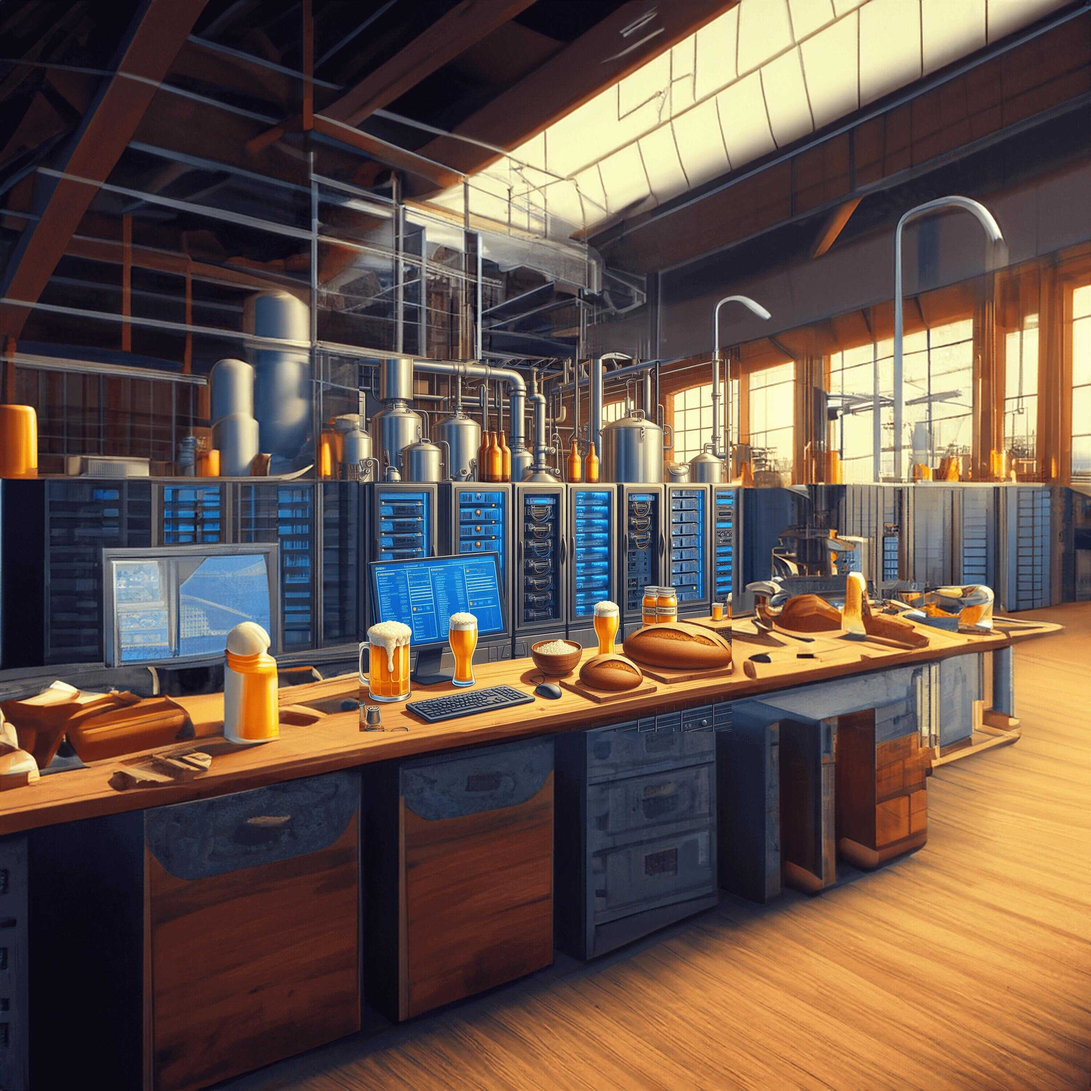
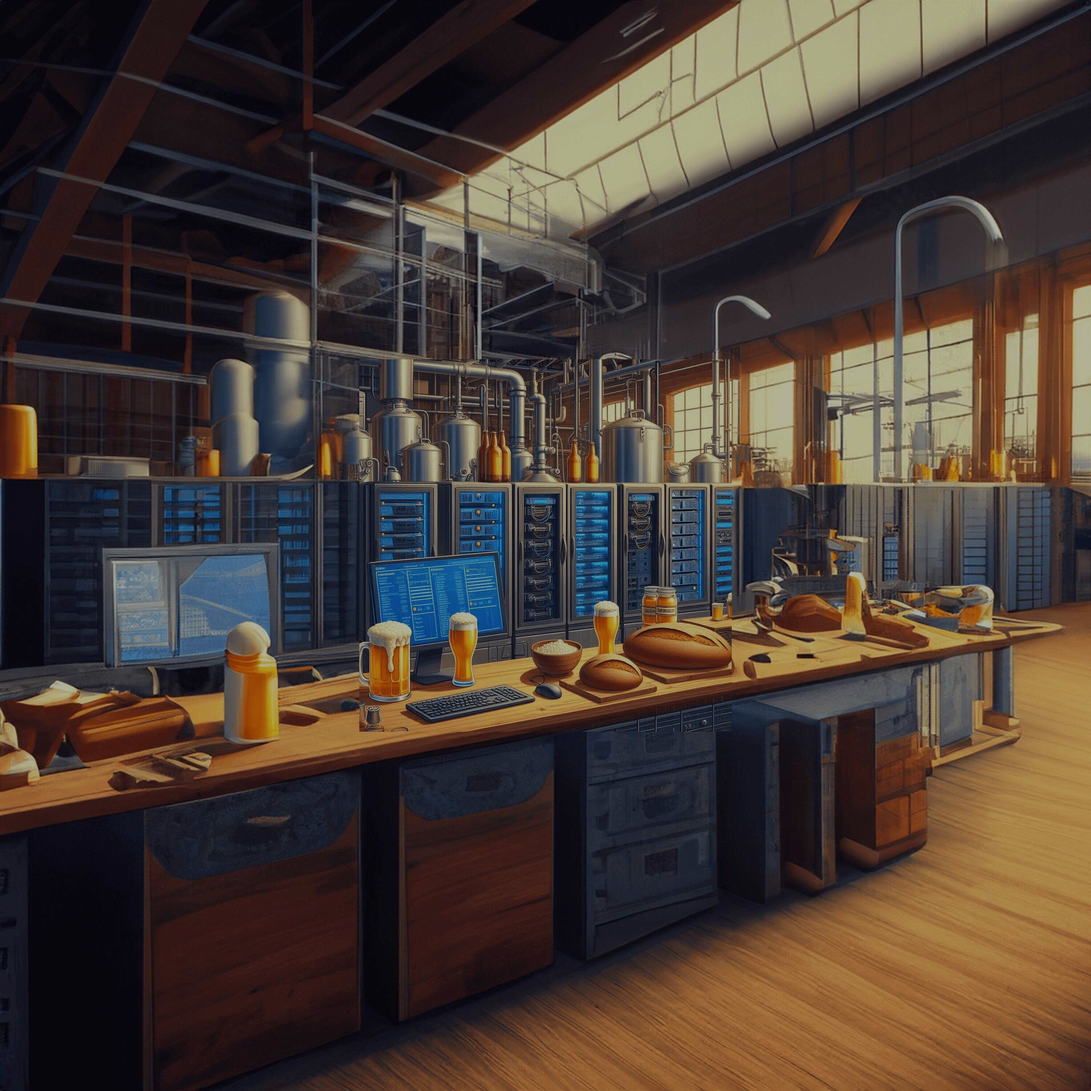
Updated text

diff --git a/index.html b/index.html
@@ -34,7 +34,7 @@
                 <div class="collapse navbar-collapse" id="navbarResponsive">
                     <ul class="navbar-nav text-uppercase ms-auto py-4 py-lg-0">
                         <li class="nav-item"><a class="nav-link" href="#about">About</a></li>
-                        <li class="nav-item"><a class="nav-link" href="#projects">Projects</a></li>
+                        <li class="nav-item"><a class="nav-link" href="#career">Career</a></li>
                         <li class="nav-item"><a class="nav-link" href="#portfolio">Portfolio</a></li>
                         <li class="nav-item"><a class="nav-link" href="#contact">Contact</a></li>
                     </ul>
@@ -56,15 +56,17 @@
                     <div class="container">
                         <div class="text-center">
                             <h2 class="section-heading text-uppercase">About</h2>
-                            <h3 class="section-subheading text-muted">Hey there! I'm Nick, a passionate IT professional based in Galesburg, IL, with a knack for technology and a love for all things culinary. With a background that's as diverse as my interests, I bring a unique blend of skills and experiences to the table.</h3>
+                            <h3 class="section-subheading text-muted">I'm Nick, a passionate IT professional based in Galesburg, IL, with a knack for technology and a love for all things culinary. With a background that's as diverse as my interests, I bring a unique blend of skills and experiences to the table.</h3>
                         </div>
-                        <ul class="timeline">
+                <!-- Career-->
+                        <ul class="timeline" id="career">
                             <li>
                                 <div class="timeline-image"><img class="rounded-circle img-fluid" src="assets/img/about/1.png" alt="..." /></div>
                                 <div class="timeline-panel">
                                     <div class="timeline-heading">
-                                        <h4>May 2021-Present (2+ yrs)</h4>
+                                        <h4>May 2021-Present (2.5+ yrs)</h4>
                                         <h4 class="subheading" style="color:var(--bs-blue);">Knoxville Community Unit School District #202</h4>
+                                        <h3>IT Director</h3>
                                     </div>
                                     <div class="timeline-body"><p class="text-muted">As the IT Director, I manage the entire IT department, overseeing team members, budgets, regulatory compliance, and technology requirements. I lead projects spanning network infrastructure, hardware, software, telecommunications, and more, optimizing departmental workflows through policy creation. In my role, I successfully upgraded all district servers, firewalls, desktops, laptops, and networking switches within a year, advocated for a software migration for improved user interface, and implemented ConnectWise Control and Freshdesk, enhancing remote support and ticket management, respectively.</p></div>
                                 </div>
@@ -75,6 +77,7 @@
                                     <div class="timeline-heading">
                                         <h4>October 2018-May 2021 (2.5 yrs)</h4>
                                         <h4 class="subheading" style="color:var(--bs-purple);">NAEIR</h4>
+                                        <h3>Software Developer</h3>
                                     </div>
                                     <div class="timeline-body"><p class="text-muted">As a Software Developer, I took charge of IT infrastructure administration, ensuring prompt resolution of system support needs and addressing performance and capacity-related issues. I employed Agile principles in desktop and web application development, overseeing the entire programming life cycle from coding to testing and deployment. By collaborating with customers, I identified opportunities for automated processes and devised innovative solutions, achieving notable successes such as reducing site downtime to zero through virtual CPU reconfiguration and optimizing network speed while cutting subscription costs through account streamlining. Additionally, I consolidated application architecture and data synchronization processes, significantly reducing management time by consolidating systems into a single Git repository. </p></div>
                                 </div>
@@ -83,8 +86,9 @@
                                 <div class="timeline-image"><img class="rounded-circle img-fluid" src="assets/img/about/3.png" alt="..." /></div>
                                 <div class="timeline-panel">
                                     <div class="timeline-heading">
-                                        <h4>April 2013 - October 2018 (2.5 yrs) </h4>
+                                        <h4>April 2013 - October 2018 (5.5 yrs) </h4>
                                         <h4 class="subheading" style="color:var(--bs-green)">City of Galesburg</h4>
+                                        <h3>Information Systems Tech</h3>
                                     </div>
                                     <div class="timeline-body"><p class="text-muted">
                                         As an Information Systems Technician, I conducted root cause analysis on application bugs, utilizing Python, PLC, and SCADA development to enhance system performance. I provided comprehensive technical support for both hardware and software, maximizing security and performance while leading system migration initiatives. Serving as the primary contact for technical issues and software releases, I established a deployment protocol for efficient software installations through a Microsoft WDS server. Additionally, I designed an Android application, enhancing information processing and optimizing website traffic.</p></div>
@@ -93,42 +97,8 @@
                         </ul>
                     </div>
                 </section>
-       <!--
-        <section class="page-section" id="services">
-            <div class="container">
-                <div class="text-center">
-                    <h2 class="section-heading text-uppercase">Projects</h2>
-                    <h3 class="section-subheading text-muted">Lorem ipsum dolor sit amet consectetur.</h3>
-                </div>
-                <div class="row text-center">
-                    <div class="col-md-4">
-                        <span class="fa-stack fa-4x">
-                            <i class="fas fa-circle fa-stack-2x text-primary"></i>
-                            <i class="fas fa-shopping-cart fa-stack-1x fa-inverse"></i>
-                        </span>
-                        <h4 class="my-3">About</h4>
-                        <p class="text-muted">Hey there! I'm Nick, a passionate IT professional based in Galesburg, IL, with a knack for technology and a love for all things culinary. With a background that's as diverse as my interests, I bring a unique blend of skills and experiences to the table.</p>
-                    </div>
-                    <div class="col-md-4">
-                        <span class="fa-stack fa-4x">
-                            <i class="fas fa-circle fa-stack-2x text-primary"></i>
-                            <i class="fas fa-laptop fa-stack-1x fa-inverse"></i>
-                        </span>
-                        <h4 class="my-3">Networking</h4>
-                        <p class="text-muted">Lorem ipsum dolor sit amet, consectetur adipisicing elit. Minima maxime quam architecto quo inventore harum ex magni, dicta impedit.</p>
-                    </div>
-                    <div class="col-md-4">
-                        <span class="fa-stack fa-4x">
-                            <i class="fas fa-circle fa-stack-2x text-primary"></i>
-                            <i class="fas fa-lock fa-stack-1x fa-inverse"></i>
-                        </span>
-                        <h4 class="my-3">Web Security</h4>
-                        <p class="text-muted">Lorem ipsum dolor sit amet, consectetur adipisicing elit. Minima maxime quam architecto quo inventore harum ex magni, dicta impedit.</p>
-                    </div>
-                </div>
-            </div>
-        </section> -->
-        <!-- Portfolio Grid-->
+
+        <!-- Portfolio -->
         <section class="page-section bg-light" id="portfolio">
             <div class="container">
                 <div class="text-center">
@@ -230,51 +200,6 @@
             </div>
         </section>
 
-        <!--
-        <section class="page-section bg-light" id="team">
-            <div class="container">
-                <div class="text-center">
-                    <h2 class="section-heading text-uppercase">Our Amazing Team</h2>
-                    <h3 class="section-subheading text-muted">Lorem ipsum dolor sit amet consectetur.</h3>
-                </div>
-                <div class="row">
-                    <div class="col-lg-4">
-                        <div class="team-member">
-                            <img class="mx-auto rounded-circle" src="assets/img/team/1.jpg" alt="..." />
-                            <h4>Parveen Anand</h4>
-                            <p class="text-muted">Lead Designer</p>
-                            <a class="btn btn-dark btn-social mx-2" href="#!" aria-label="Parveen Anand Twitter Profile"><i class="fab fa-twitter"></i></a>
-                            <a class="btn btn-dark btn-social mx-2" href="#!" aria-label="Parveen Anand Facebook Profile"><i class="fab fa-facebook-f"></i></a>
-                            <a class="btn btn-dark btn-social mx-2" href="#!" aria-label="Parveen Anand LinkedIn Profile"><i class="fab fa-linkedin-in"></i></a>
-                        </div>
-                    </div>
-                    <div class="col-lg-4">
-                        <div class="team-member">
-                            <img class="mx-auto rounded-circle" src="assets/img/team/2.jpg" alt="..." />
-                            <h4>Diana Petersen</h4>
-                            <p class="text-muted">Lead Marketer</p>
-                            <a class="btn btn-dark btn-social mx-2" href="#!" aria-label="Diana Petersen Twitter Profile"><i class="fab fa-twitter"></i></a>
-                            <a class="btn btn-dark btn-social mx-2" href="#!" aria-label="Diana Petersen Facebook Profile"><i class="fab fa-facebook-f"></i></a>
-                            <a class="btn btn-dark btn-social mx-2" href="#!" aria-label="Diana Petersen LinkedIn Profile"><i class="fab fa-linkedin-in"></i></a>
-                        </div>
-                    </div>
-                    <div class="col-lg-4">
-                        <div class="team-member">
-                            <img class="mx-auto rounded-circle" src="assets/img/team/3.jpg" alt="..." />
-                            <h4>Larry Parker</h4>
-                            <p class="text-muted">Lead Developer</p>
-                            <a class="btn btn-dark btn-social mx-2" href="#!" aria-label="Larry Parker Twitter Profile"><i class="fab fa-twitter"></i></a>
-                            <a class="btn btn-dark btn-social mx-2" href="#!" aria-label="Larry Parker Facebook Profile"><i class="fab fa-facebook-f"></i></a>
-                            <a class="btn btn-dark btn-social mx-2" href="#!" aria-label="Larry Parker LinkedIn Profile"><i class="fab fa-linkedin-in"></i></a>
-                        </div>
-                    </div>
-                </div>
-                <div class="row">
-                    <div class="col-lg-8 mx-auto text-center"><p class="large text-muted">Lorem ipsum dolor sit amet, consectetur adipisicing elit. Aut eaque, laboriosam veritatis, quos non quis ad perspiciatis, totam corporis ea, alias ut unde.</p></div>
-                </div>
-            </div>
-        </section>
-    -->
         <!-- Clients-->
         <div class="py-5">
             <div class="container">
@@ -364,9 +289,8 @@
                 <div class="row align-items-center">
                     <div class="col-lg-4 text-lg-start">Copyright &copy; GigabitNick 2023</div>
                     <div class="col-lg-4 my-3 my-lg-0">
-                        <a class="btn btn-dark btn-social mx-2" href="#!" aria-label="Twitter"><i class="fab fa-twitter"></i></a>
-                        <a class="btn btn-dark btn-social mx-2" href="#!" aria-label="Facebook"><i class="fab fa-facebook-f"></i></a>
-                        <a class="btn btn-dark btn-social mx-2" href="#!" aria-label="LinkedIn"><i class="fab fa-linkedin-in"></i></a>
+                        <a class="btn btn-dark btn-social mx-2" href="https://twitter.com/gigabitnick" aria-label="Twitter"><i class="fab fa-twitter"></i></a>
+                        <a class="btn btn-dark btn-social mx-2" href="https://linkedin.com/in/nick-elliott" aria-label="LinkedIn"><i class="fab fa-linkedin-in"></i></a>
                     </div>
                     <div class="col-lg-4 text-lg-end">
                         <a class="link-dark text-decoration-none me-3" href="#!">Privacy Policy</a>
@@ -386,23 +310,20 @@
                             <div class="col-lg-8">
                                 <div class="modal-body">
                                     <!-- Project details-->
-                                    <h2 class="text-uppercase">Project Name</h2>
-                                    <p class="item-intro text-muted">Lorem ipsum dolor sit amet consectetur.</p>
-                                    <img class="img-fluid d-block mx-auto" src="assets/img/portfolio/1.jpg" alt="..." />
-                                    <p>Use this area to describe your project. Lorem ipsum dolor sit amet, consectetur adipisicing elit. Est blanditiis dolorem culpa incidunt minus dignissimos deserunt repellat aperiam quasi sunt officia expedita beatae cupiditate, maiores repudiandae, nostrum, reiciendis facere nemo!</p>
-                                    <ul class="list-inline">
-                                        <li>
-                                            <strong>Client:</strong>
-                                            Server Deployment
-                                        </li>
-                                        <li>
-                                            <strong>Category:</strong>
-                                            Illustration
-                                        </li>
-                                    </ul>
+                                    <h2 class="text-uppercase">Server</h2>
+                                    <p class="item-intro text-muted">Deployment & Config</p>
+                                    <img class="img-fluid d-block mx-auto" src="assets/img/portfolio/project-server.jpg" alt="..." />
+                                    <p>
+                                        <ul>
+                                            <li>Replaced and upgraded all servers, firewalls, desktops, laptops, and networking switches throughout the district at Knoxville CUSD #202.</li>
+                                            <li>Designed and implemented a 24 Layer-3 switch network capable of a 100Gb backbone in 2021.</li>
+                                            <li>Installed and configured Fortinet Fortigate firewalls with SD-WAN for NAEIR and Knoxville CUSD #202.</li>
+                                        </ul>
+                                    </p>
+
                                     <button class="btn btn-primary btn-xl text-uppercase" data-bs-dismiss="modal" type="button">
                                         <i class="fas fa-xmark me-1"></i>
-                                        Close Project
+                                        Close
                                     </button>
                                 </div>
                             </div>

diff --git a/css/styles.css b/css/styles.css
@@ -10942,6 +10942,9 @@ p {
     margin-right: 0;
   }
 }
+header.masthead::before {
+  filter: brightness(0.2);
+}
 header.masthead {
   padding-top: 10.5rem;
   padding-bottom: 6rem;
@@ -10955,6 +10958,8 @@ header.masthead {
   box-sizing: border-box;
   box-shadow: inset 0 0 250px 100px black;
 }
+
+
 header.masthead .masthead-subheading {
   font-size: 1.5rem;
   font-style: italic;
